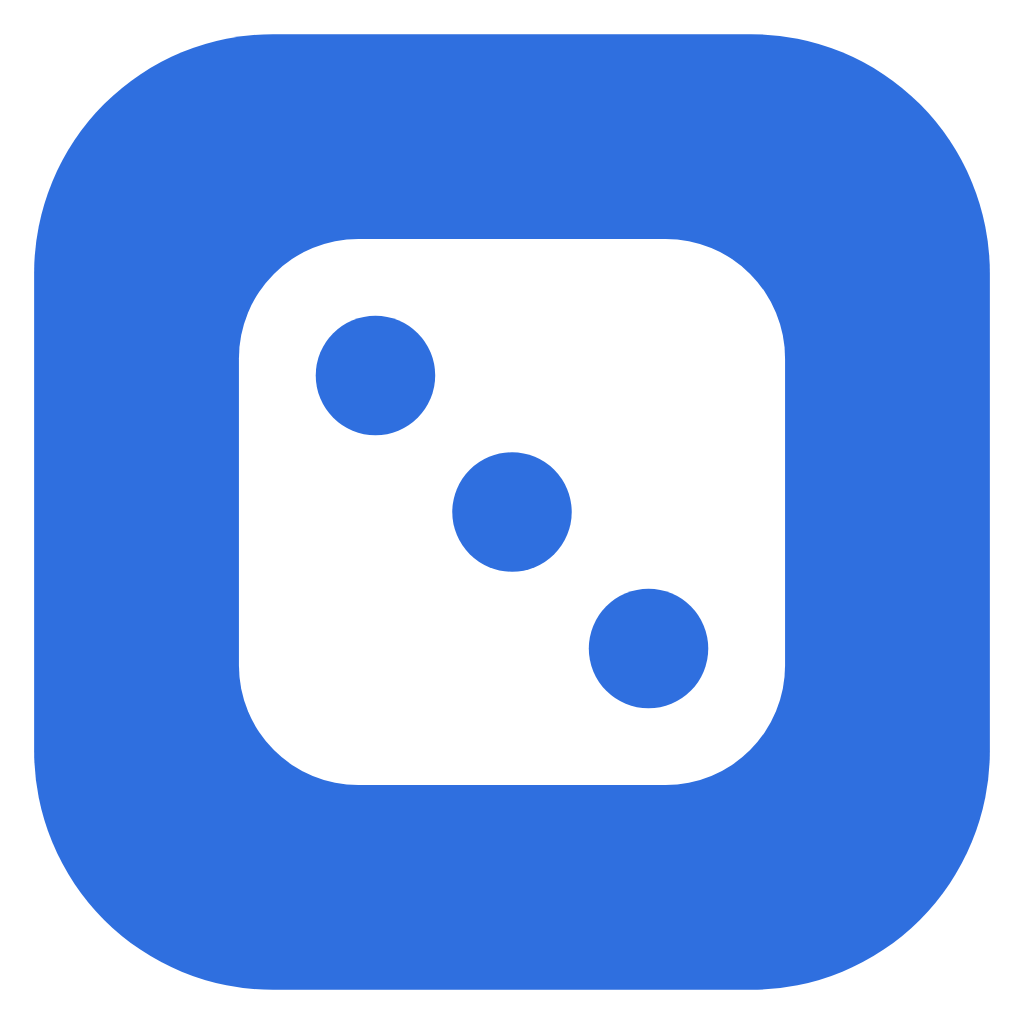
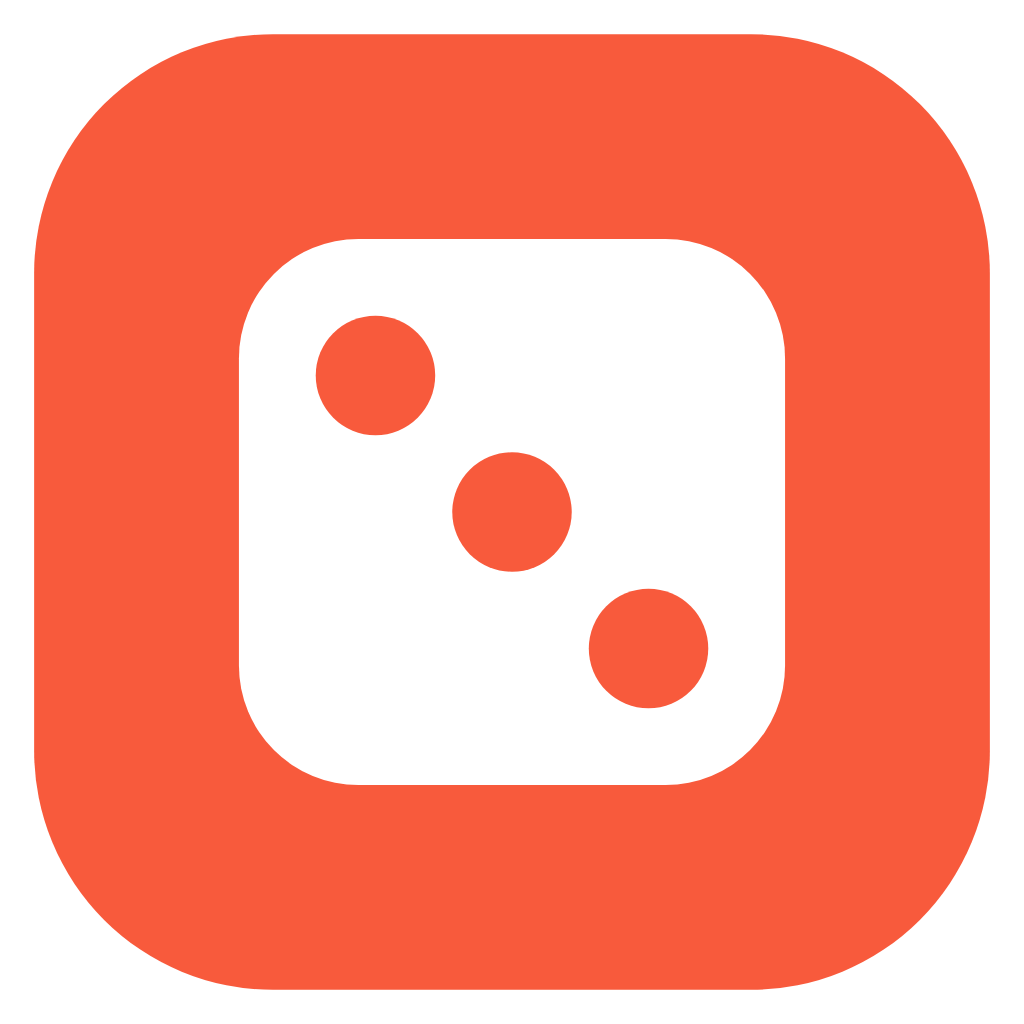
feat(client): a warm coral is the default brand
The six --brand-* defaults become a warm coral: primary #f85a3c, hover
#e53e20, light #fef5f3, strong #9f2c18, light on dark #292524, and
strong on dark #ffab9a (8.3:1 on #292524). A host's brand still
overrides all six; nothing else sets defaults.

Contrast (WCAG): coral is 3.2:1 with white, so text on it moves off it.
A filled button's face is deepened toward primary-strong (white text
4.5-4.8:1); focus outlines take the hover shade in light (3.7:1 on the
page grey, where coral is 2.85:1) and the coral in dark (5.6:1). Text in
the brand colour already used primary-strong (6.9:1 on the light wash).
Die shapes in the toast: strong numbers on the light wash 6.9:1, coral
outline 3.0:1; in dark 8.3:1 and 4.7:1.

Warm hues: the favicon and the PNG icons are recoloured; tldraw's own
theme variables (selection, the chosen tool, focus) follow the brand.
The neutrals were already warm greys.

Screenshots: warm-front-*, warm-dice-sheet-*, warm-toast-sheet-*,
warm-search-*, warm-flash-*, warm-people-* (light and dark, phone).

diff --git a/client/src/theme/theme.css b/client/src/theme/theme.css
@@ -33,12 +33,14 @@
 }
 
 :root {
-  --brand-primary: #2f6fdf;
-  --brand-primary-hover: #1f57c0;
-  --brand-primary-light: #eef3fd;
-  --brand-primary-strong: #1a428f;
-  --brand-primary-light-dark: #1c2333;
-  --brand-primary-strong-dark: #a9c3f5;
+  /* A warm coral. It fails 4.5:1 as text on white (3.2:1): text takes
+     primary-strong, and a filled button darkens its face. */
+  --brand-primary: #f85a3c;
+  --brand-primary-hover: #e53e20;
+  --brand-primary-light: #fef5f3;
+  --brand-primary-strong: #9f2c18;
+  --brand-primary-light-dark: #292524;
+  --brand-primary-strong-dark: #ffab9a;
 }
 
 @theme {
@@ -50,7 +52,8 @@
 
   --color-background: #f0f1f3;
   --color-border: #e4ddd6;
-  --color-border-focus: var(--brand-primary);
+  /* The hover shade: the coral itself is under 3:1 on the page's grey. */
+  --color-border-focus: var(--brand-primary-hover);
 
   --color-foreground: #252220;
   --color-foreground-secondary: #5c534a;
@@ -88,6 +91,7 @@
   --color-foreground-secondary: #d4d4d4;
   --color-foreground-muted: #8c8c8c;
   --color-border: #404040;
+  --color-border-focus: var(--brand-primary);
   --color-primary-light: var(--brand-primary-light-dark);
   --color-primary-strong: var(--brand-primary-strong-dark);
   --color-secondary: #2dd4b3;

diff --git a/client/src/theme/buttons.css b/client/src/theme/buttons.css
@@ -42,7 +42,7 @@
     }
 
     &:focus-visible {
-      outline: 2px solid var(--color-primary);
+      outline: 2px solid var(--color-border-focus);
       outline-offset: 2px;
     }
   }
@@ -57,14 +57,16 @@
   }
 
   .btn-primary {
-    --bg: color-mix(in oklab, var(--color-primary), var(--color-primary-hover));
+    /* Deepened toward primary-strong so white text clears 4.5:1 on a
+       light brand colour such as the coral. */
+    --bg: color-mix(in oklab, var(--color-primary-hover), var(--brand-primary-strong) 25%);
     --hl1: rgba(255, 255, 255, 0.3);
     --hl2: rgba(255, 255, 255, 0.22);
 
     color: white;
     background-image: linear-gradient(
       180deg,
-      color-mix(in oklab, var(--color-primary), white 12%),
+      color-mix(in oklab, var(--color-primary-hover), var(--brand-primary-strong) 15%),
       var(--bg)
     );
     text-shadow: 0 1px 1px rgba(0, 0, 0, 0.16);

diff --git a/client/src/board.css b/client/src/board.css
@@ -2,3 +2,21 @@
    unlayered, it would beat every utility class placed on tldraw's parts
    (the toolbar's width, the board's controls inside it). */
 @import "tldraw/tldraw.css" layer(components);
+
+/* tldraw's own theme variables, its supported way to recolour the editor:
+   selection, the chosen tool and focus follow the brand. */
+.tl-theme__light,
+.tl-theme__dark {
+  --tl-color-primary: var(--brand-primary);
+  --tl-color-selected: var(--brand-primary);
+  --tl-color-selection-stroke: var(--brand-primary);
+  --tl-color-selection-fill: color-mix(in srgb, var(--brand-primary) 22%, transparent);
+}
+
+.tl-theme__light {
+  --tl-color-focus: var(--brand-primary-hover);
+}
+
+.tl-theme__dark {
+  --tl-color-focus: var(--brand-primary-strong-dark);
+}

diff --git a/README.md b/README.md
@@ -79,15 +79,15 @@ variables (`SIGNING_KEY` in hosted mode), is refused: every request answers
 
 The client is built per deployment, from these helper props:
 
-| Helper prop                               | Meaning                                                                                                                                             |
-| ----------------------------------------- | --------------------------------------------------------------------------------------------------------------------------------------------------- |
-| `hostOrigin` + `bootstrapPath`            | The pass endpoint. Default path `/b/{code}/bootstrap/`, `{code}` the share code                                                                     |
-| `exitUrl`                                 | Where "Back to the main page" leads before the host has answered. Default `hostOrigin/`                                                             |
-| `displayName`, `shortName`, `description` | The page title, the home-screen name and the manifest. Default "Tabletop"                                                                           |
-| `language`                                | `en` or `pl`, when neither `?lang=` nor the browser names one. Default `en`                                                                         |
-| `brand`                                   | Up to six hex colours: `primary`, `primaryHover`, `primaryLight`, `primaryStrong` (text on the light wash), `primaryLightDark`, `primaryStrongDark` |
-| `iconsDir`                                | A directory with `favicon.svg`, `apple-touch-icon.png`, `icon-192.png`, `icon-512.png`, `icon-1024.png`, `icon-maskable-512.png`                    |
-| `licenseKey`                              | tldraw's licence key. Public by design: tldraw ties it to the domain                                                                                |
+| Helper prop                               | Meaning                                                                                                                                                                                                 |
+| ----------------------------------------- | ------------------------------------------------------------------------------------------------------------------------------------------------------------------------------------------------------- |
+| `hostOrigin` + `bootstrapPath`            | The pass endpoint. Default path `/b/{code}/bootstrap/`, `{code}` the share code                                                                                                                         |
+| `exitUrl`                                 | Where "Back to the main page" leads before the host has answered. Default `hostOrigin/`                                                                                                                 |
+| `displayName`, `shortName`, `description` | The page title, the home-screen name and the manifest. Default "Tabletop"                                                                                                                               |
+| `language`                                | `en` or `pl`, when neither `?lang=` nor the browser names one. Default `en`                                                                                                                             |
+| `brand`                                   | Up to six hex colours: `primary`, `primaryHover`, `primaryLight`, `primaryStrong` (text on the light wash), `primaryLightDark`, `primaryStrongDark`. Unset, a warm coral (`client/src/theme/theme.css`) |
+| `iconsDir`                                | A directory with `favicon.svg`, `apple-touch-icon.png`, `icon-192.png`, `icon-512.png`, `icon-1024.png`, `icon-maskable-512.png`                                                                        |
+| `licenseKey`                              | tldraw's licence key. Public by design: tldraw ties it to the domain                                                                                                                                    |
 
 ### The pass request
 
